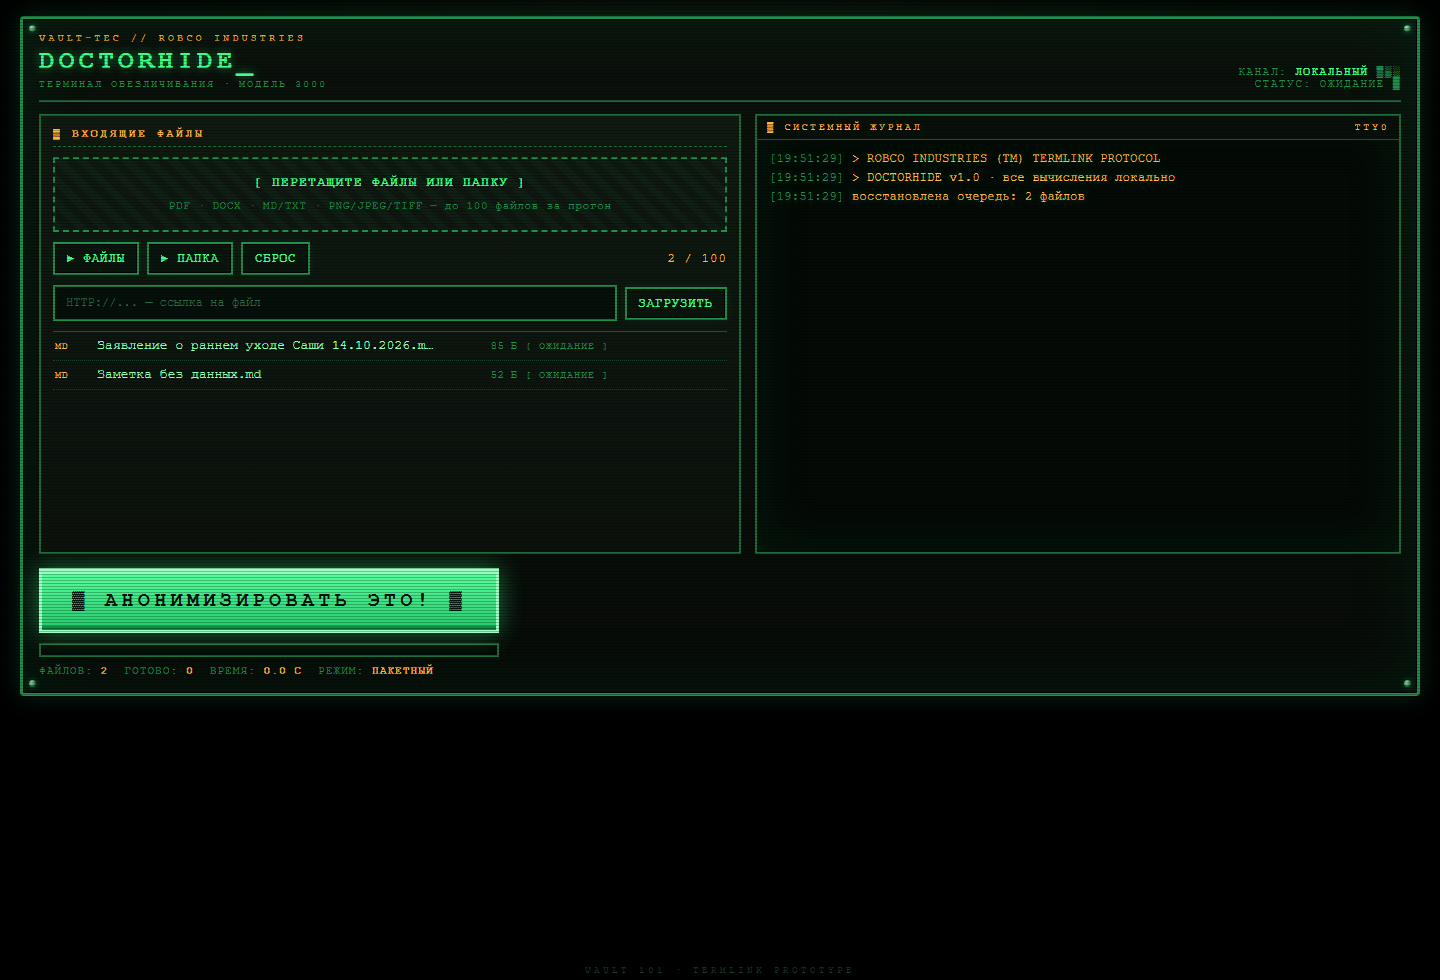
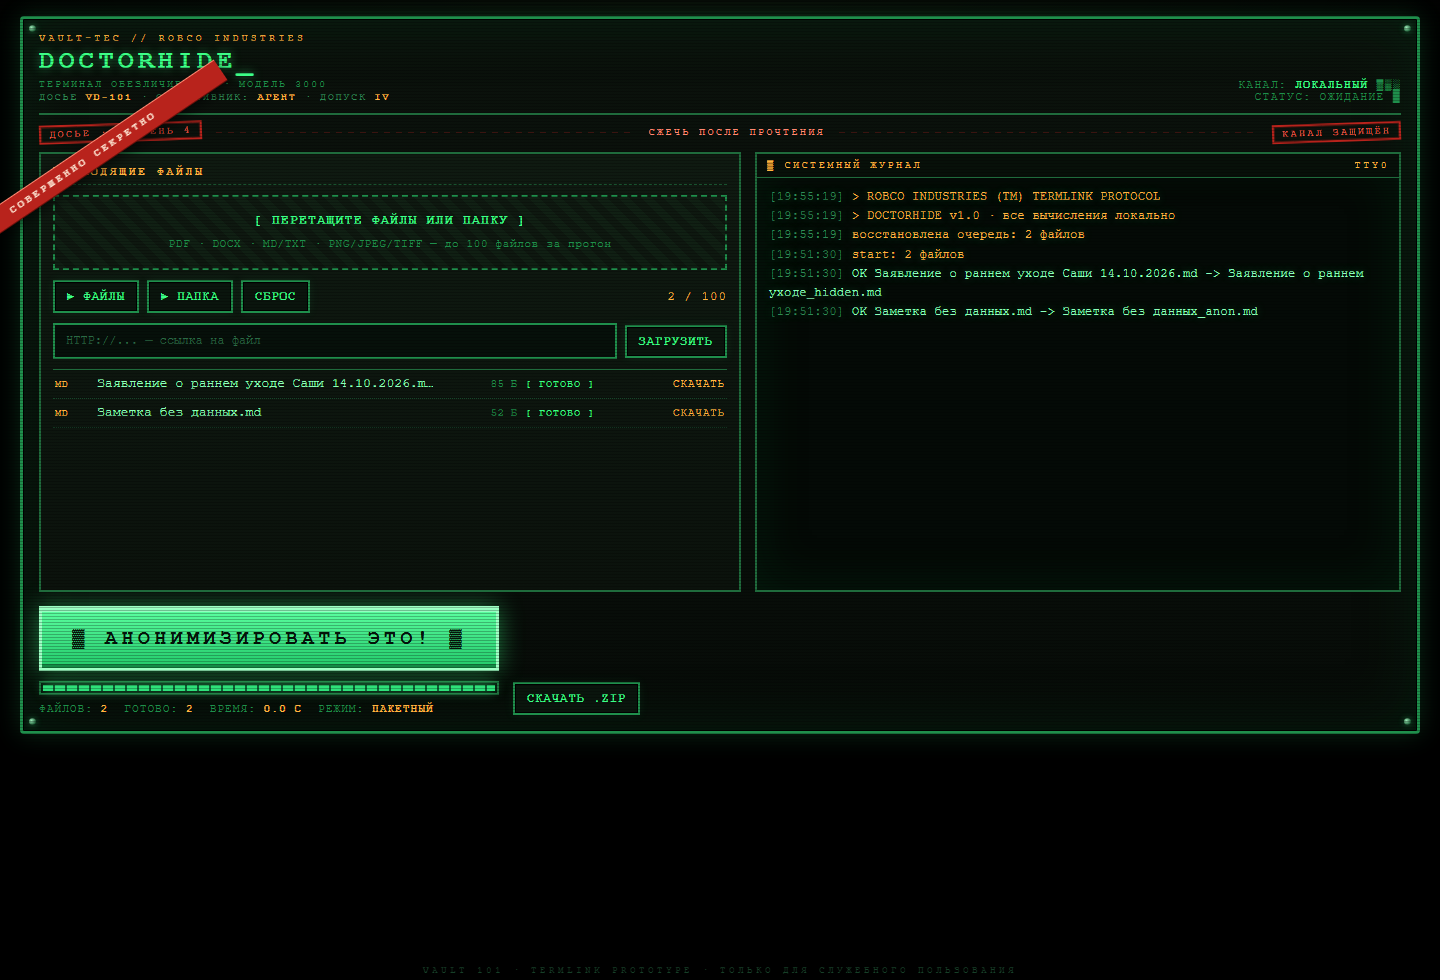
Шпионские элементы поверх терминала
Лента «совершенно секретно», гриф «ДОСЬЕ · УРОВЕНЬ 4», строка «СЖЕЧЬ ПОСЛЕ ПРОЧТЕНИЯ», номер досье и уровень допуска в шапке, подпись «только для служебного пользования». Фоллаутовская фосфорная палитра сохранена.

diff --git a/gui/index.html b/gui/index.html
@@ -125,11 +125,25 @@
     color:var(--green-dim);text-transform:uppercase}
   .stats b{color:var(--amber);font-weight:700}
   .hint{margin-top:8px;font-size:10.5px;color:var(--green-dim);letter-spacing:.06em}
+
+  .secret{position:fixed;left:-82px;top:150px;transform:rotate(-34deg);
+    background:#b8231c;color:#ffe9d6;font-size:10px;letter-spacing:.32em;font-weight:700;
+    padding:6px 78px;z-index:12;box-shadow:0 4px 14px rgba(0,0,0,.6);
+    border-top:1px solid #ff8a73;border-bottom:1px solid #6d0f0a;text-transform:uppercase}
+  .classif{display:flex;gap:14px;align-items:center;margin:-4px 0 10px;font-size:10px;
+    letter-spacing:.24em;color:#ff8a73;text-transform:uppercase}
+  .classif .stamp{border:2px solid #b8231c;color:#ff6f5f;padding:2px 8px;transform:rotate(-2deg);
+    box-shadow:0 0 0 1px rgba(184,35,28,.35) inset}
+  .classif .bar{flex:1;height:1px;background:repeating-linear-gradient(90deg,#3a1410 0 6px,transparent 6px 12px)}
+  .dossier{font-size:10px;letter-spacing:.18em;color:#2f8a57;margin-top:2px}
+  .dossier b{color:#ffb642}
+  .burn{margin-top:8px;font-size:9.5px;letter-spacing:.28em;color:#7a2a22;text-transform:uppercase}
   .vault{position:fixed;left:50%;transform:translateX(-50%);bottom:4px;font-size:9px;
     letter-spacing:.4em;color:#163f27;pointer-events:none}
 </style>
 </head>
 <body>
+<div class="secret">совершенно секретно</div>
 <div class="frame">
   <span class="rivet r1"></span><span class="rivet r2"></span>
 
@@ -138,12 +152,21 @@
       <span class="small">VAULT-TEC // ROBCO INDUSTRIES</span>
       <h1>DOCTORHIDE<span class="blink">_</span></h1>
       <span class="sub">ТЕРМИНАЛ ОБЕЗЛИЧИВАНИЯ · МОДЕЛЬ 3000</span>
+      <span class="dossier">ДОСЬЕ <b>VD-101</b> · ОПЕРАТИВНИК: <b>АГЕНТ</b> · ДОПУСК <b>IV</b></span>
     </div>
     <div class="status">
       <div>канал: <b>ЛОКАЛЬНЫЙ</b> ▓▒░</div>
       <div id="ledText">СТАТУС: ОЖИДАНИЕ <span class="blink">█</span></div>
     </div>
   </header>
+
+  <div class="classif">
+    <span class="stamp">ДОСЬЕ · УРОВЕНЬ 4</span>
+    <span class="bar"></span>
+    <span>СЖЕЧЬ ПОСЛЕ ПРОЧТЕНИЯ</span>
+    <span class="bar"></span>
+    <span class="stamp">КАНАЛ ЗАЩИЩЁН</span>
+  </div>
 
   <div class="layout">
     <section class="panel">
@@ -188,7 +211,7 @@
     </div>
   </footer>
 </div>
-<div class="vault">VAULT 101 · TERMLINK PROTOTYPE</div>
+<div class="vault">VAULT 101 · TERMLINK PROTOTYPE · ТОЛЬКО ДЛЯ СЛУЖЕБНОГО ПОЛЬЗОВАНИЯ</div>
 
 <input type="file" id="fileInput" multiple hidden
        accept=".pdf,.docx,.doc,.md,.markdown,.txt,.png,.jpg,.jpeg,.tif,.tiff,.bmp,.webp">
